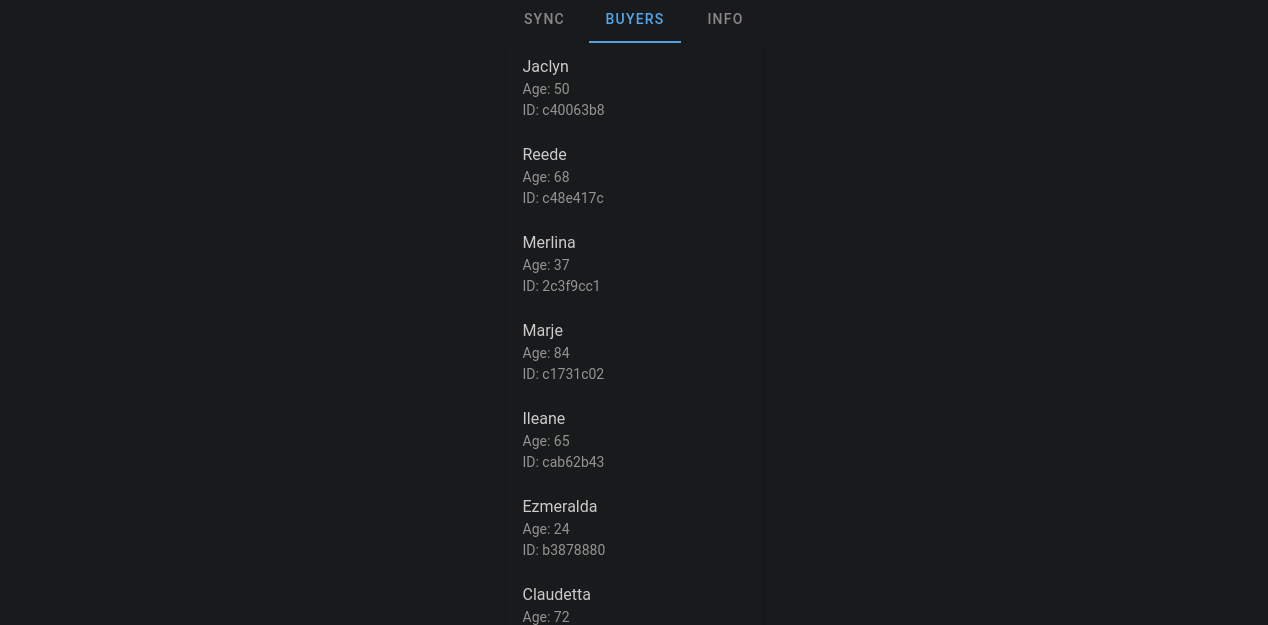
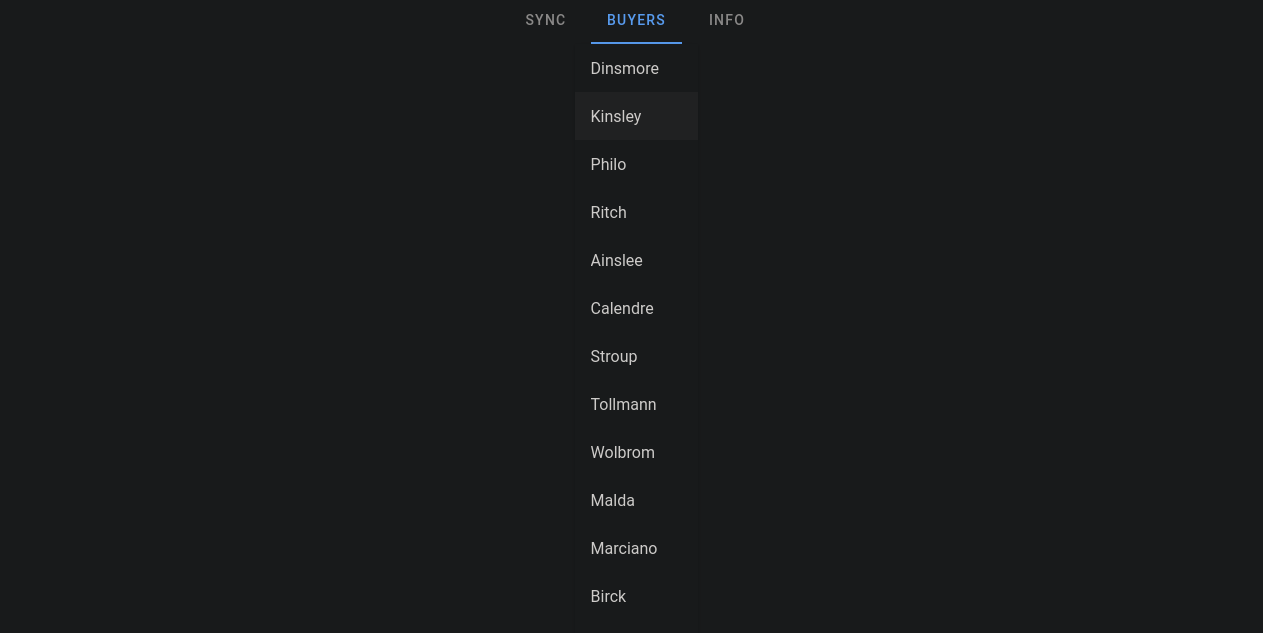
tab 'info', new screens

diff --git a/web-client/src/components/Buyer.vue b/web-client/src/components/Buyer.vue
@@ -29,6 +29,10 @@
             </v-text-field>
         </v-col>
     </v-row>
+    <h1 v-show="progress">Buyer</h1>
+    <h3 v-show="progress">Name: {{buyername}}</h3>
+    <h3 v-show="progress">Age: {{buyerage}}</h3>
+    <v-divider v-show="progress"></v-divider>
     <h1 v-show="progress">Transactions</h1>
     <v-card class="mx-auto" tile>
             <v-list-group
@@ -100,15 +104,17 @@ export default {
         recommendedProducts: [],
         loading: false,
         buyerid: '',
+        buyername: '',
+        buyerage: '',
         progress: false
     }),
 
     async created(){
-        this.showAlert()
+        this.loadBuyer()
     },
 
     watch: {
-        '$route': 'showAlert'
+        '$route': 'loadBuyer'
     },
 
     methods: {
@@ -142,8 +148,10 @@ export default {
             this.loading = false
         },
 
-        showAlert: async function(){
+        loadBuyer: async function(){
             this.buyerid = this.$route.params.itemId
+            this.buyername = this.$route.params.itemName
+            this.buyerage = this.$route.params.itemAge
             this.click()
         }
     }

diff --git a/web-client/src/components/AllBuyers.vue b/web-client/src/components/AllBuyers.vue
@@ -13,15 +13,13 @@
                 class="mx-auto"
                 tile
                 >
-                <v-list-item 
-                    three-line
+                <v-list-item
                     v-for="item in items"
                     :key="item.id"
                     @click="click(item)"
                     >
                     <v-list-item-content>
                         <v-list-item-title v-text="item.name"></v-list-item-title>
-                        <v-list-item-subtitle>Age: {{item.age}}</v-list-item-subtitle>
                     </v-list-item-content>
                 </v-list-item>
             </v-card>
@@ -61,8 +59,7 @@ export default {
 
     methods: {
         click: async function(item){
-            this.$router.push({name:'BuyerView', params: {itemId: item.id}})
-            //alert(`${item.id}`)
+            this.$router.push({name:'BuyerView', params: {itemId: item.id, itemName: item.name, itemAge: item.age}})
         }
     }
 }
